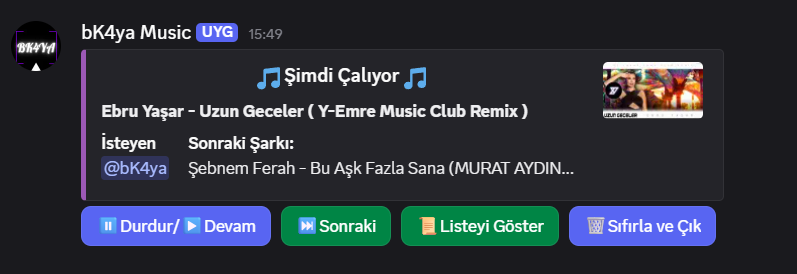
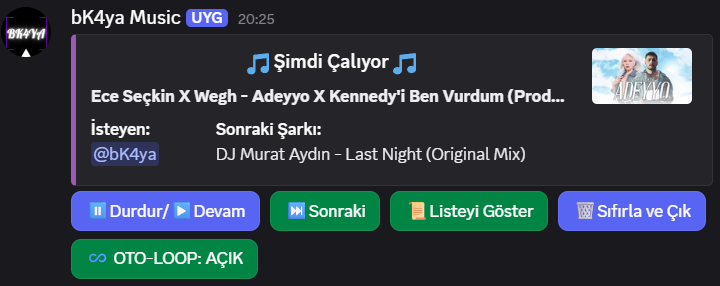
Update README.md

diff --git a/README.md b/README.md
@@ -1,27 +1,30 @@
 # 🎵 Discord Sunucunuz İçin YouTube Müzik Botu 🎵
 ![Python](https://img.shields.io/badge/Python-3.12%2B-blue)
 ![discord.py](https://img.shields.io/badge/discord.py-2.7.1-%235865F2)
-![FFmpeg](https://img.shields.io/badge/FFmpeg-2024--08--21-green)
+![FFmpeg](https://img.shields.io/badge/FFmpeg-2024--08--21%2B-green)
 ![yt-dlp](https://img.shields.io/badge/yt--dlp-2026.6.9-blue)
 
 Modern, interaktif UI butonlarına sahip ve YouTube üzerinden yüksek kaliteli ses akışı sağlayan gelişmiş bir Discord müzik botu.
 
-Bu bot, sunucunuzdaki ses kanallarında mesaj kalabalığı yaratmadan, dinamik arayüzü sayesinde youtube linklerinde müzik deneyimini en kolay hale getirmek için tasarlanmıştır.
+Bu bot, sunucunuzdaki ses kanallarında mesaj kalabalığı yaratmadan, dinamik arayüzü sayesinde youtube linklerinde müzik deneyimini en kolay hale getirmek için tasarlanmıştır. Ayrıca bot Oto Play özelliği sayesinde YouTube'nin gelişmiş öneri algoritmasını kullanarak devamlı olarak şarkı çalabilmektedir.
 
 ### Müzik Botunun UI Görünümleri
 ![](images/bot_ui_1.png)
 ![](images/bot_ui_2.png)
 
+### Oto Play Durumunda UI Görünümü
+![](images/bot_ui_3.png)
 ---
 
 ## Özellikler
 
-*   **YouTube Desteği:** `.play <youtube-linki>` komutu ile doğrudan YouTube üzerinden şarkı oynatma.
+*   **YouTube Desteği:** `.play <youtube-linki veya şarkı sözleri>` komutu ile doğrudan YouTube üzerinden şarkı oynatma.
 *   **Playlist Desteği** `.playlist <playlist-linki>` komutu ile YouTube playlisti üzerinden toplu şarkı oynatma.
 *   **İnteraktif UI Kontrolleri:** Şarkı oynatılırken kanaldaki interaktif butonlar sayesinde:
     *   ⏸/▶ Şarkıyı duraklatma ve devam ettirme.
-    *   📋 Sıradaki şarkıların listesini dinamik olarak gösterme/gizleme (Gelişmiş Kuyruk Görünümü).
+    *   📋 Sıradaki şarkıların listesini dinamik olarak gösterme/gizleme.
     *   ⏹ Kuyruğu tamamen sıfırlayıp botun kanaldan ayrılmasını sağlayan hızlı kapatma butonu.
+    *   ♾ Oto Play özelliğini kontrol etmenizi sağlayan interaktif buton.
 *   **"Sırada Ne Var?" Önizlemesi:** Liste butonuna basmanıza gerek kalmadan, bir sonraki şarkının başlığını doğrudan ana arayüz üzerinde görebilme kolaylığı.
 *   **Temiz Sohbet Modu (Anti-Spam):** Bot, şarkı geçişlerinde veya kanaldan ayrıldığında eski mesajlarını ve artık işlevsiz kalan butonları otomatik olarak temizler. Sohbet akışını bozmaz, etkileşimi hep en altta tutar.
 
@@ -29,8 +32,43 @@ Bu bot, sunucunuzdaki ses kanallarında mesaj kalabalığı yaratmadan, dinamik 
 
 ## 🛠 Kurulum ve Çalıştırma 🛠
 
-Botu kendi sunucunuzda çalıştırmak için aşağıdaki adımları takip edin:
+* Hızlı bir başlangıç yapmak veya botunuzu sunucuya kurmak için [Kurulum Adımları](#hızlı-başlangıç-i̇çin)
 
+* Botu lokal bilgisayarınızda çalıştırmak için [Kurulum Adımları](#lokal-çalıştırma-i̇çin)
+
+
+## Hızlı Başlangıç İçin
+### 1. Projeyi Klonlayın
+```bash
+git clone https://github.com/BerkayyKaya/Discord-Music-Bot
+```
+
+Proje dizinine geçin:
+```bash
+cd Discord-Music-Bot
+```
+
+### 2. Example Dosyasını Düzenleyin
+Proje dizini içerisinde size bir .env.example dosyası verilmiştir. Bu dosyayı bir text editörü ile açarak **discord_token** değerini kendi botunuzun tokeni olarak ayarlayın.
+
+Nasıl token alacağınızı bilmiyorsanız: [Token Nasıl Alınır?](#4-bir-bot-oluşturun)
+
+### 3. Docker Containeri Başlatın
+Projenin kök dizini içerisindeyken docker-compose.yml dosyasını aktifleştirin.
+
+#### Windows Kullanıyorsanız:
+```bash
+docker-compose up -d --build
+```
+
+#### Linux Kullanıyorsanız:
+```bash
+docker compose up -d --build
+```
+
+**Not: Aktifleştirme işlemi internet hızınıza bağlı olarak 3-5 dakika sürebilir. Bu işlem bir defaya mahsustur.**
+
+## Lokal Çalıştırma İçin
 ### 1. Gereksinimler
 Sisteminizde **Python 3.12+** ve ses işleme için **FFmpeg** kurulu olmalıdır. Ayrıca FFmpeg Pathinizin sistem değişkenlerinde olduğundan emin olunuz.
 
